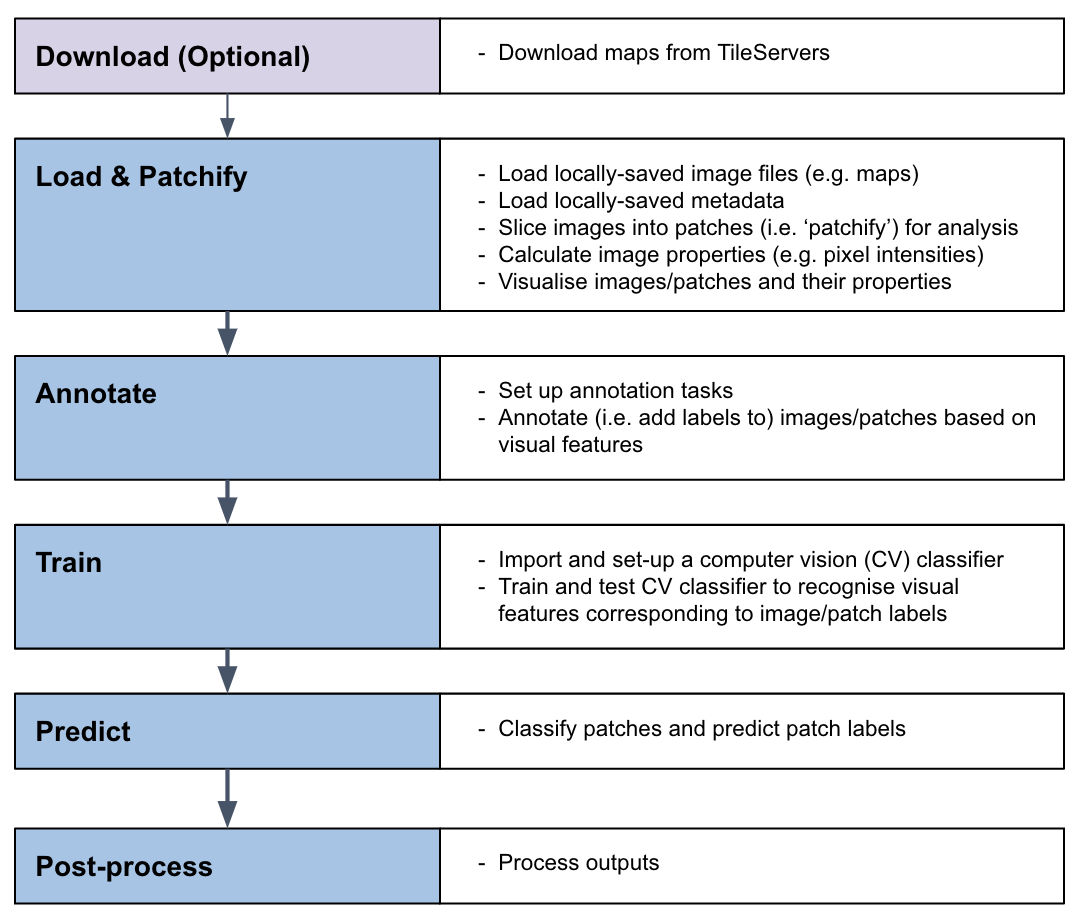
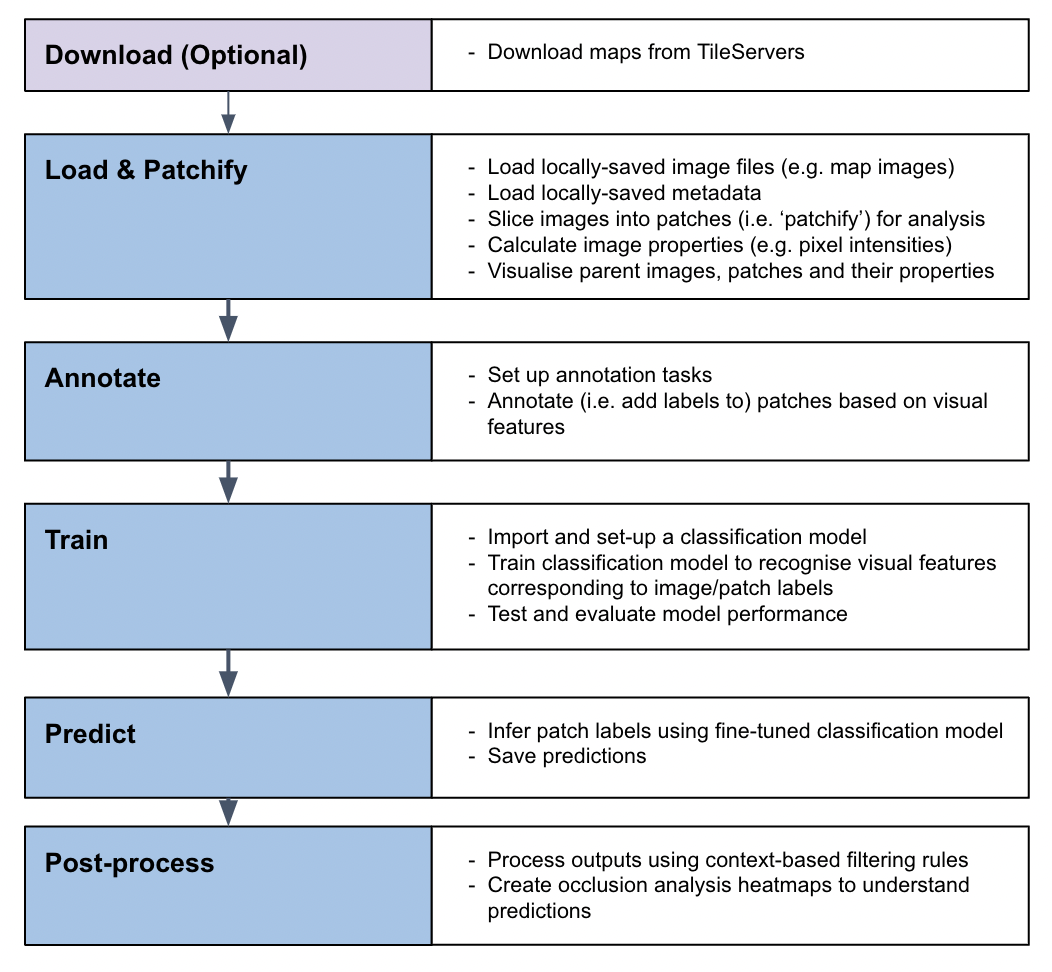
update README

Changed region(s): [[0.0, 0.0, 1.0, 1.0]]

diff --git a/README.md b/README.md
@@ -1,16 +1,13 @@
 # MapReader
 
-**MapReader is a computer vision pipeline for exploring and analyzing images at scale.**
-
 <!-- ALL-CONTRIBUTORS-BADGE:START - Do not remove or modify this section -->
 [![All Contributors](https://img.shields.io/badge/all_contributors-8-orange.svg?style=flat-square)](#contributors)
-<!-- ALL-CONTRIBUTORS-BADGE:END -->
-
 ![PyPI](https://img.shields.io/pypi/v/MapReader)
 ![License](https://img.shields.io/badge/License-MIT-yellow.svg)
 ![Integration Tests badge](https://github.com/Living-with-machines/MapReader/actions/workflows/mr_ci.yml/badge.svg)
 ![DOI](https://zenodo.org/badge/430661738.svg)
 ![CodeCov](https://codecov.io/github/Living-with-machines/MapReader/graph/badge.svg?token=38GQ3O1GB5)
+[![DOI](https://joss.theoj.org/papers/10.21105/joss.06434/status.svg)](https://doi.org/10.21105/joss.06434)
 
 ## Table of Contents
 
@@ -18,7 +15,8 @@
   - [Table of Contents](#table-of-contents)
   - [What is MapReader?](#what-is-mapreader)
   - [Overview](#overview)
-    - [MapReader pipeline](#mapreader-pipeline)
+    - [MapReader classification pipeline](#mapreader-classification-pipeline)
+    - [MapReader text spotting pipeline](#mapreader-classification-pipeline)
   - [Documentation](#documentation)
   - [What is included in this repo?](#what-is-included-in-this-repo)
   - [How to cite MapReader](#how-to-cite-mapreader)
@@ -30,31 +28,36 @@
 
 ## What is MapReader?
 
-MapReader is an end-to-end computer vision (CV) pipeline for exploring and analyzing images at scale.
+**MapReader is a open-source python library for exploring and analyzing map images at scale.**
 
-<figure align="center">
-  <img src="https://raw.githubusercontent.com/Living-with-machines/MapReader/main/docs/source/_static/river_banner_8bit.png"
-      alt="Annotated Map with Prediction Outputs"
-      width="70%">
-</figure>
+It contains two different pipelines:
 
-MapReader was developed in the [Living with Machines](https://livingwithmachines.ac.uk/) project to analyze large collections of historical maps but is a _**generalizable**_ computer vision pipeline which can be applied to _**any images**_ in a wide variety of domains.
+- Classification pipeline: This pipeline enables users to fine-tune a classification model and predict the labels of patches created from a parent image.
+- Text spotting pipeline: This pipeline enables users to detect and recognize text in map images.
+
+MapReader was developed in the [Living with Machines](https://livingwithmachines.ac.uk/) project to analyze large collections of historical maps but is a _**generalizable**_ computer vision tool which can be applied to _**any images**_ in a wide variety of domains.
 
 ## Overview
 
-MapReader is a groundbreaking interdisciplinary tool that emerged from a specific set of geospatial historical research questions. It was inspired by methods in biomedical imaging and geographic information science, which were adapted for use by historians, for example in our [Journal of Victorian Culture](https://doi.org/10.1093/jvcult/vcab009) and [Geospatial Humanities 2022 SIGSPATIAL workshop](https://arxiv.org/abs/2111.15592) papers. The success of the tool subsequently generated interest from plant phenotype researchers working with large image datasets, and so MapReader is an example of cross-pollination between the humanities and the sciences made possible by reproducible data science.
+### MapReader classification pipeline
 
-### MapReader pipeline
-
-The MapReader pipeline consists of a linear sequence of tasks which, together, can be used to train a computer vision (CV) classifier to recognize visual features within maps and identify patches containing these features across entire map collections:
+The MapReader classification pipeline enables users to train a classification model to recognize visual features within map images and to identify patches containing these features across entire map collections:
 
 <figure align="center">
-  <img src="https://raw.githubusercontent.com/Living-with-machines/MapReader/main/docs/source/_static/pipeline_explained.png"
+  <img src="https://raw.githubusercontent.com/maps-as-data/MapReader/main/docs/source/_static/pipeline_explained.png"
         alt="MapReader pipeline"
         width="70%">
 </figure>
 
-See our [Introduction to MapReader](https://mapreader.readthedocs.io/en/latest/introduction-to-mapreader/) page to learn more.
+### MapReader text spotting pipeline
+
+The MapReader text spotting pipeline enables users to detect and recognize text in map images using a pre-trained text spotting model:
+
+<figure align="center">
+  <img src="https://raw.githubusercontent.com/maps-as-data/MapReader/main/docs/source/_static/text-spotting-pipeline.png"
+        alt="MapReader text spotting pipeline"
+        width="70%">
+</figure>
 
 ## Documentation
 
@@ -62,42 +65,37 @@ The MapReader documentation can be found at https://mapreader.readthedocs.io/en/
 
 **New users** should refer to the [Installation instructions](https://mapreader.readthedocs.io/en/latest/getting-started/installation-instructions/index.html) and [Input guidance](https://mapreader.readthedocs.io/en/latest/using-mapreader/input-guidance/) for help with the initial set up of MapReader.
 
-**All users** should refer to our [User Guide](https://mapreader.readthedocs.io/en/latest/using-mapreader/) for guidance on how to use MapReader. This contains end-to-end instructions on how to use the MapReader pipeline, plus a number of worked examples illustrating use cases such as:
-
-- Geospatial images (i.e. maps)
-- Non-geospatial images
+**All users** should refer to our [User Guide](https://mapreader.readthedocs.io/en/latest/using-mapreader/) for guidance on how to use MapReader.
+This contains end-to-end instructions on how to use the MapReader pipeline.
 
  **Developers and contributors** may also want to refer to the [API documentation](https://mapreader.readthedocs.io/en/latest/in-depth-resources/api/mapreader/) and [Contribution guide](https://mapreader.readthedocs.io/en/latest/community-and-contributions/contribution-guide/) for guidance on how to contribute to the MapReader package.
+
+
+## Stay in touch
+
+**All users** are encouraged to join our community! Please refer to the [Community and contributions](https://mapreader.readthedocs.io/en/latest/community-and-contributions/events.html) page for information on ways to get involved.
 
 **Join our Slack workspace!**
 Please fill out [this form](https://forms.gle/dXjECHZQkwrZ3Xpt9) to receive an invitation to the Slack workspace.
 
 ## What is included in this repo?
 
-The MapReader package provides a set of tools to:
+This repository contains everything needed for running MapReader.
 
-- **Download** images/maps and metadata stored on web-servers (e.g. tileservers which can be used to retrieve maps from OpenStreetMap (OSM), the National Library of Scotland (NLS), or elsewhere).
-- **Load** images/maps and metadata stored locally.
-- **Pre-process** images/maps:
-  - patchify (create patches from a parent image),
-  - resample (use image transformations to alter pixel-dimensions/resolution/orientation/etc.),
-  - remove borders outside the neatline,
-  - reproject between coordinate reference systems (CRS).
-- **Annotate** images/maps (or their patches) using an interactive annotation tool.
-- **Train or fine-tune** Computer Vision (CV) models and use these to **predict** labels (i.e. model inference) on large sets of images/maps.
+The repository is structured as follows:
 
-Various **plotting and analysis** functionalities are also included (based on packages such as _matplotlib_, _cartopy_, _Google Earth_, and _[kepler.gl](https://kepler.gl/))_.
+- `mapreader/`: Contains the source code for the MapReader library.
+- `docs/`: Contains the documentation for the MapReader library.
+- `tests/` and `test_text_spotting/`: Contains the tests for the MapReader library.
+- `worked_examples/`: Contains worked examples of how to use the MapReader library.
 
 ## How to cite MapReader
 
-If you use MapReader in your work, please cite both the MapReader repo and [our SIGSPATIAL paper](https://dl.acm.org/doi/10.1145/3557919.3565812):
-
-- Kasra Hosseini, Daniel C. S. Wilson, Kaspar Beelen, and Katherine McDonough. 2022. MapReader: a computer vision pipeline for the semantic exploration of maps at scale. In Proceedings of the 6th ACM SIGSPATIAL International Workshop on Geospatial Humanities (GeoHumanities '22). Association for Computing Machinery, New York, NY, USA, 8–19. https://doi.org/10.1145/3557919.3565812
-- Kasra Hosseini, Rosie Wood, Andy Smith, Katie McDonough, Daniel C.S. Wilson, Christina Last, Kalle Westerling, and Evangeline Mae Corcoran. “Living-with-machines/mapreader: End of Lwm”. Zenodo, July 27, 2023. https://doi.org/10.5281/zenodo.8189653.
+If you use MapReader in your work, please cite the MapReader repository through our [Zenodo record](https://zenodo.org/records/13643609), our [MapReader JOSS paper](https://doi.org/10.21105/joss.06434) and [our SIGSPATIAL paper](https://dl.acm.org/doi/10.1145/3557919.3565812).
 
 ## Acknowledgements
 
-This work was supported by Living with Machines (AHRC grant AH/S01179X/1) and The Alan Turing Institute (EPSRC grant EP/N510129/1).
+This work was supported by Living with Machines (AHRC grant AH/S01179X/1), Data/Culture (AHRC grant AH/Y00745X/1) and The Alan Turing Institute (EPSRC grant EP/N510129/1).
 
 Living with Machines, funded by the UK Research and Innovation (UKRI) Strategic Priority Fund, is a multidisciplinary collaboration delivered by the Arts and Humanities Research Council (AHRC), with The Alan Turing Institute, the British Library and the Universities of Cambridge, East Anglia, Exeter, and Queen Mary University of London.
 
